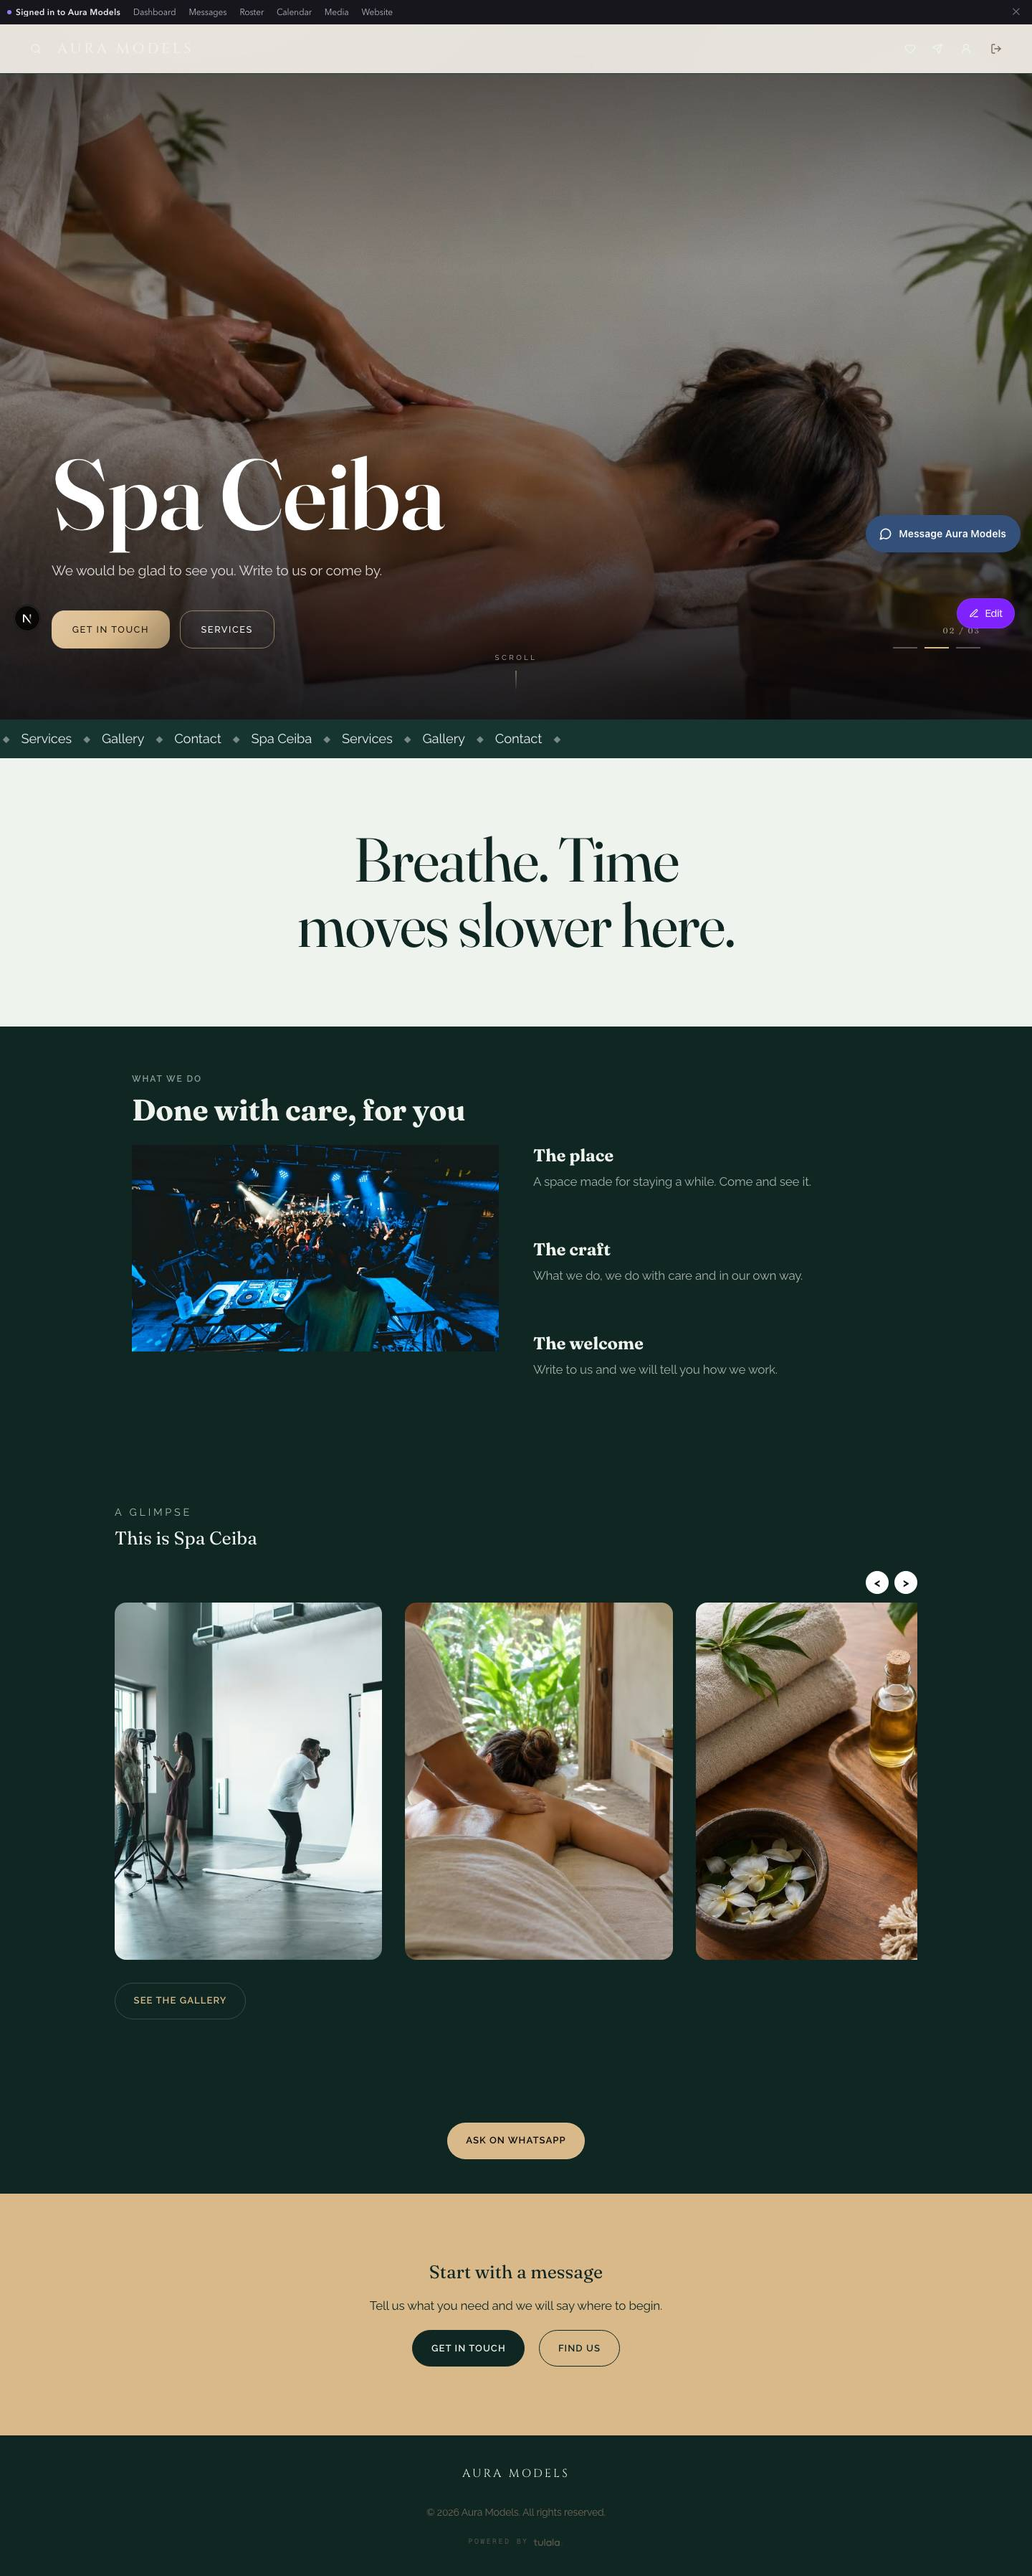
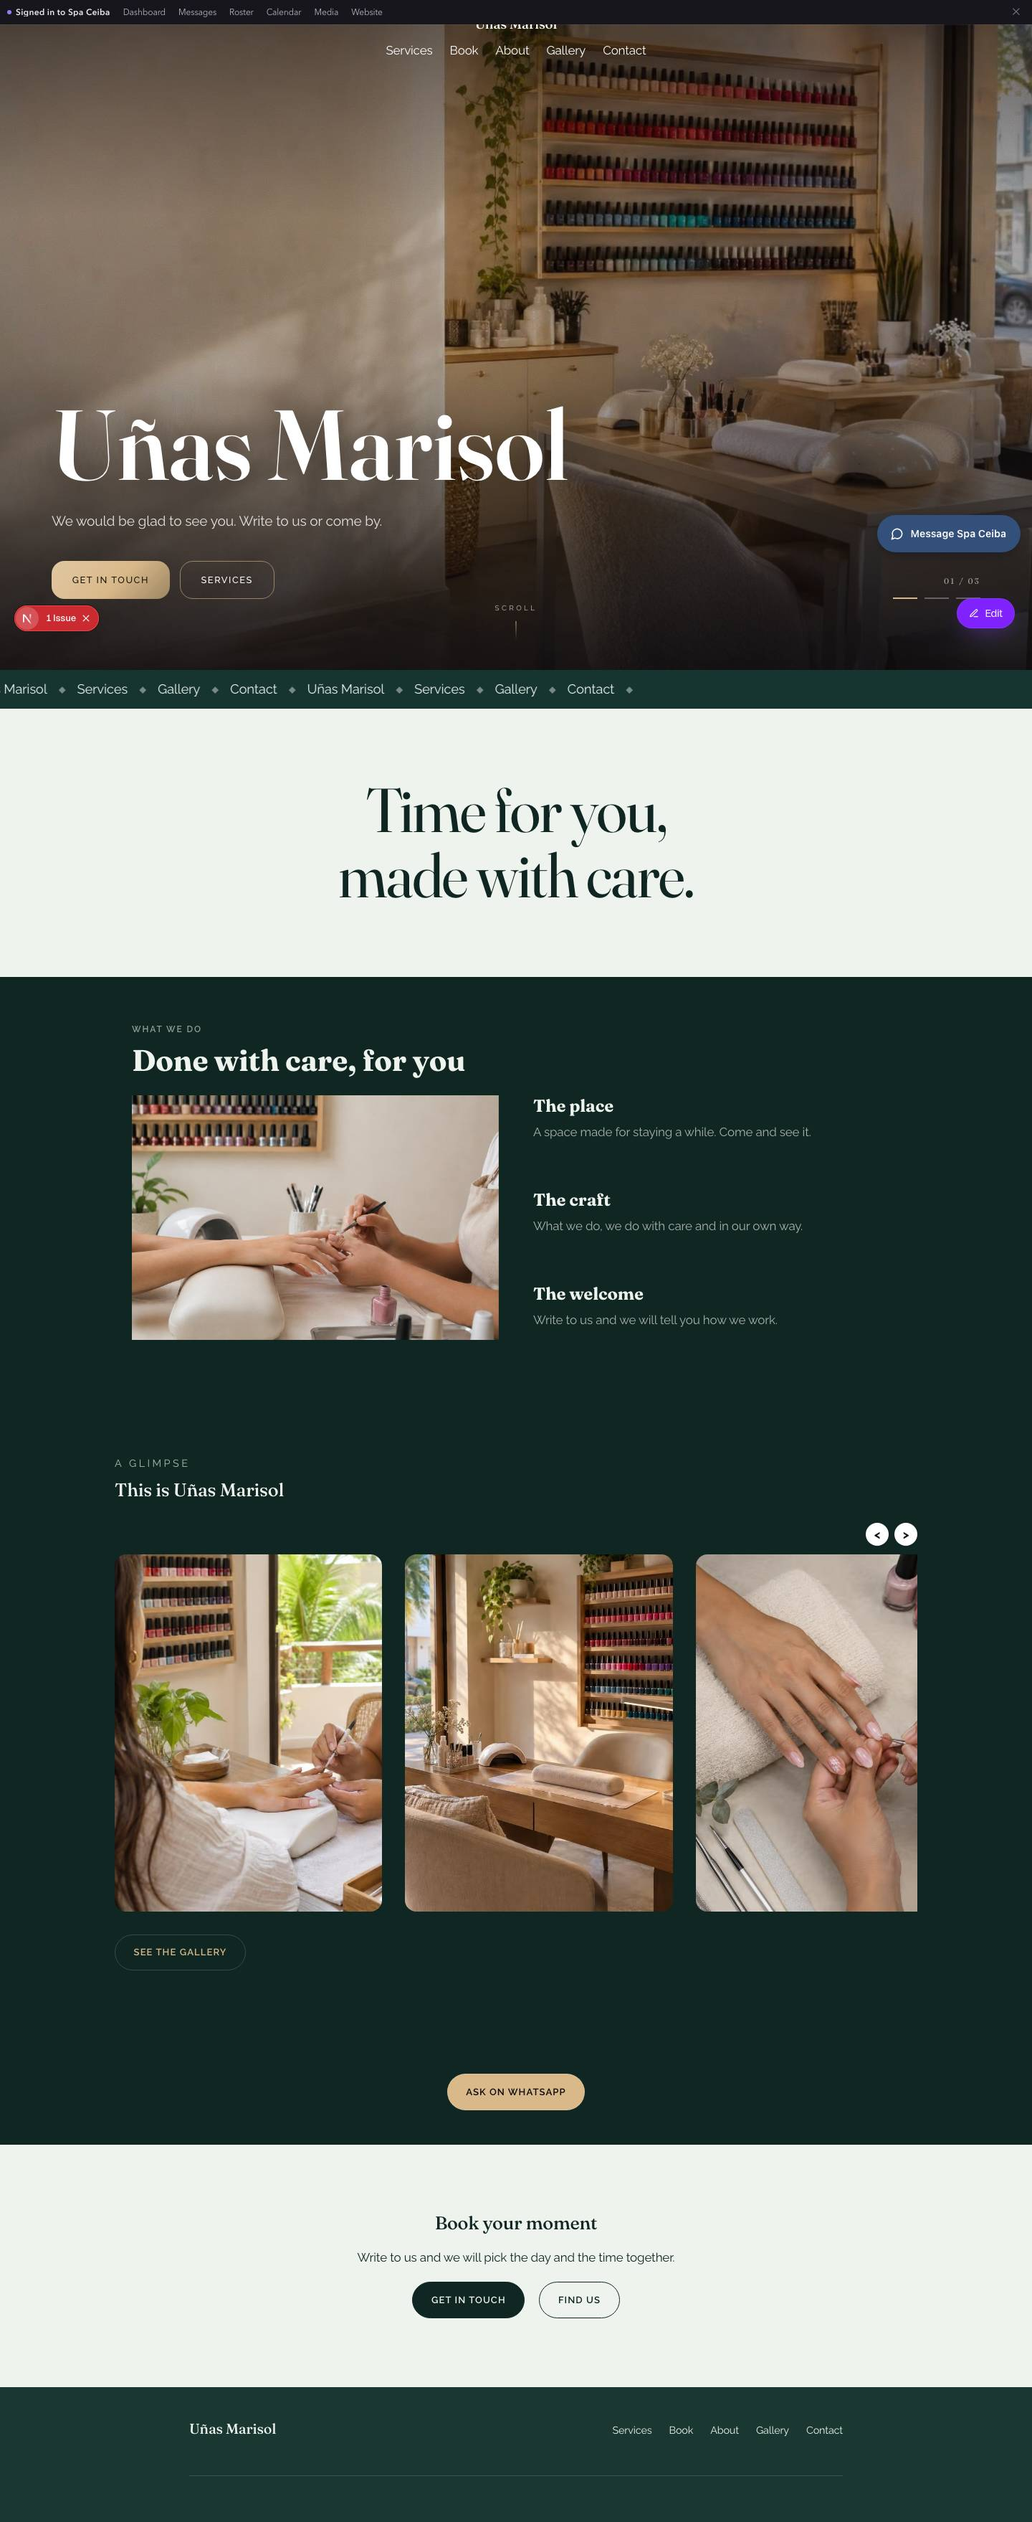
fix(compose): keep the public name in step with the brief; bust every tenant cache after a compose; cinematic Looks float their header over the hero
- agency_business_identity.public_name was seeded once and never updated, so
  the legacy header and the chat launcher showed the first-ever compose name
  ('Aura Models' on the QA tenant) under every later site; now updated from the
  brief's stated business.name each compose, identity tag busted
- bustAllTenantCaches (tenantBustTags) at the end of compose: the storefront
  rendered one compose behind (previous hero under the new name)
- cinematic recipes: header absolute/transparent over the hero, white ink,
  more head room; brand() takes an ink override
- evidence: flagship heroes re-captured with the real shell header
  (*-hero-shell-1440/390.jpg); README corrected (earlier captures showed the
  legacy header because the QA tenant had fallen out of the local shell
  allow-list). D-TPL-42.

diff --git a/web/src/lib/site-admin/builder-core/site-templates/compose-site-from-brief.server.ts b/web/src/lib/site-admin/builder-core/site-templates/compose-site-from-brief.server.ts
@@ -45,7 +45,7 @@ import { buildCopyPassPrompt, COPY_PASS_JSON_SCHEMA, COPY_PASS_KEYS, COPY_PASS_M
 import { assignmentSourceForLevel, buildImageResolver, type AssignmentSource, type CandidateImage } from "./image-resolver";
 import { stockFactsFromBrief } from "./stock-prompts";
 import { writeAssignments } from "@/lib/media/asset-assignments.server";
-import { tagFor } from "@/lib/site-admin/cache-tags";
+import { tagFor, tenantBustTags } from "@/lib/site-admin/cache-tags";
 import { updateTag } from "next/cache";
 import { enqueueTenantImageJob } from "@/lib/media/tenant-image-jobs.server";
 import { instantiateSite } from "./instantiate-site";
@@ -292,6 +292,26 @@ function bustBrandingCache(tenantId: string): void {
     /* outside a request scope (scripts, tests): nothing to bust */
   }
 }
+function bustIdentityCache(tenantId: string): void {
+  try {
+    updateTag(tagFor(tenantId, "identity"));
+  } catch {
+    /* outside a request scope */
+  }
+}
+/**
+ * A compose rewrites the homepage, the shell, the pages, the theme and the
+ * name: every public cache surface of the tenant is stale afterwards. The
+ * page writers bust their own tags; this is the belt for the ones that
+ * render one compose behind (seen live: previous hero under the new name).
+ */
+function bustAllTenantCaches(tenantId: string): void {
+  try {
+    for (const tag of tenantBustTags(tenantId)) updateTag(tag);
+  } catch {
+    /* outside a request scope */
+  }
+}
 
 const EMPTY_PLACED: SiteComposePlaced = { photos: { hero: null, heroSource: null, gallery: 0, level: null, pendingJobId: null }, menuItems: 0, hoursPresent: false, whatsappPresent: false, logoPresent: false };
 
@@ -376,10 +396,21 @@ export async function composeSiteFromBrief(input: ComposeSiteInput): Promise<Com
   // `agency_business_identity.public_name`; a tenant provisioned without one
   // would greet visitors as "the agency". Seed it with the name we are about
   // to put on the site (never overwriting a row that exists).
+  const statedName = (facts ? stringFact(facts, "business.name") : null)?.trim() || null;
   if (!identityRow) {
     const { error: idErr } = await admin.from("agency_business_identity").upsert({ tenant_id: input.tenantId, public_name: businessName }, { onConflict: "tenant_id", ignoreDuplicates: true });
     if (idErr) notes.push(`identity row not seeded: ${idErr.message}`);
     identityRow = await loadIdentityForStaff(admin, input.tenantId);
+  } else if (statedName && identityRow.public_name?.trim() !== statedName) {
+    // The brief's stated name is the newest fact: the legacy header, the chat
+    // button and the mobile menu read `public_name`, so a stale seed here
+    // would show one name in the chrome and another on the page.
+    const { error: nameErr } = await admin.from("agency_business_identity").update({ public_name: statedName }).eq("tenant_id", input.tenantId);
+    if (nameErr) notes.push(`public name not updated: ${nameErr.message}`);
+    else {
+      identityRow = { ...identityRow, public_name: statedName };
+      bustIdentityCache(input.tenantId);
+    }
   }
   const logoUrl = await resolveLogoUrl(admin, input.tenantId, facts);
   const hrefs = pageHrefsFor(family);
@@ -629,6 +660,7 @@ export async function composeSiteFromBrief(input: ComposeSiteInput): Promise<Com
     logoPresent: !!logoUrl,
   };
   await writeStamp(admin, input.tenantId, { outcome, siteComposeId, lookId: look.id, typeId, family, at: new Date().toISOString(), pageIds, placed, copySource, notes });
+  bustAllTenantCaches(input.tenantId);
 
   return { outcome, siteComposeId, lookId: look.id, typeId, family, pageIds, shellPageId: shell.ok ? shell.pageId : null, copySource, imagePicks, placed, notes, costUsd, durationMs: Date.now() - started };
 }

diff --git a/web/src/lib/site-admin/builder-core/site-templates/looks/shared.ts b/web/src/lib/site-admin/builder-core/site-templates/looks/shared.ts
@@ -322,8 +322,8 @@ function navLinks(): Array<{ id: string; label: string; href: string }> {
   }));
 }
 
-function brand(r: LookRecipe, align: "left" | "center" = "left"): BuilderNode {
-  const wordmark = h(2, copy("home.hero.headline"), { ...r.headingStyle, size: "md", align, textWrap: "nowrap" } as Style);
+function brand(r: LookRecipe, align: "left" | "center" = "left", extra: Style = {}): BuilderNode {
+  const wordmark = h(2, copy("home.hero.headline"), { ...r.headingStyle, size: "md", align, textWrap: "nowrap", ...extra } as Style);
   wordmark.props = { ...wordmark.props, layerLabel: "Brand name" };
   return row(
     [
@@ -365,14 +365,29 @@ function headerCta(): BuilderNode {
   return b;
 }
 
+/**
+ * Over a cinematic hero the header floats: absolutely positioned at the top,
+ * no background, light type. The hero's scrim is always dark (v2-sections),
+ * so white is the one honest literal here regardless of the Look's own ink;
+ * the header does not persist on scroll (award-tier pattern; the mobile
+ * drawer and the footer nav carry the links further down).
+ */
+const OVERLAY_INK = "#ffffff";
+
 function header(r: LookRecipe): BuilderNode[] {
-  const gutter: Style = { paddingX: "m", paddingY: "s", maxWidth: "full", maxWidthFree: "100%", width: "100%", background: "surface" };
+  const overlay = r.hero === "cinematic";
+  const gutter: Style = overlay
+    ? { paddingX: "m", paddingY: "m", maxWidth: "full", maxWidthFree: "100%", width: "100%", background: "none", position: "absolute", top: "0px", left: "0px", zIndex: 40, textColor: OVERLAY_INK }
+    : { paddingX: "m", paddingY: "s", maxWidth: "full", maxWidthFree: "100%", width: "100%", background: "surface" };
+  const ink: Style = overlay ? { textColor: OVERLAY_INK } : {};
+  const nav = (style: Style) => navNode({ ...style, ...ink });
+  const mark = (align: "left" | "center" = "left") => brand(r, align, ink);
   switch (r.header) {
     case "left-nav":
-      return [headerRow([brand(r), navNode({ justifyContent: "flex-end" }), headerCta()], gutter)];
+      return [headerRow([mark(), nav({ justifyContent: "flex-end" }), headerCta()], gutter)];
     case "centered": {
       // Desktop: wordmark above a centred nav. Phone: one row, brand + menu.
-      const node = stack([brand(r, "center"), navNode({ justifyContent: "center", flexGrow: 0 })], { ...gutter, alignItems: "center" }, { gap: "s", align: "center" });
+      const node = stack([mark("center"), nav({ justifyContent: "center", flexGrow: 0 })], { ...gutter, alignItems: "center" }, { gap: "s", align: "center" });
       (node as { props: Record<string, unknown> }).props = { ...node.props, responsive: { mobile: { layout: "row", align: "center" } } };
       return [node];
     }
@@ -381,10 +396,10 @@ function header(r: LookRecipe): BuilderNode[] {
       // Equal flex on both wings keeps the wordmark truly centred.
       const wing = ctas([headerCta()], "end");
       (wing as { props: Record<string, unknown> }).props = { ...wing.props, style: { flexGrow: 1, flexBasis: "0%", width: "auto" } };
-      return [headerRow([navNode({ justifyContent: "flex-start", flexGrow: 1, flexBasis: "0%" }), brand(r, "center"), wing], gutter)];
+      return [headerRow([nav({ justifyContent: "flex-start", flexGrow: 1, flexBasis: "0%" }), mark("center"), wing], gutter)];
     }
     case "minimal":
-      return [headerRow([brand(r), navNode({ justifyContent: "flex-end" })], gutter)];
+      return [headerRow([mark(), nav({ justifyContent: "flex-end" })], gutter)];
   }
 }
 

diff --git a/docs/plans/templates/evidence/looks-v2/README.md b/docs/plans/templates/evidence/looks-v2/README.md
@@ -6,7 +6,7 @@ Composed with `lookId: ember` (POST /api/dev/compose-site), the tenant's own ima
 - `ember-home-1440.jpg`, `ember-home-390.jpg` — full pages after a scroll pass (entrance animations need the viewport to reach them; a cold full-page capture shows unrevealed sections as blank, which is the animation working, not a hole).
 - `ember-menu-1440.jpg`, `ember-gallery-1440.jpg`, `ember-about-1440.jpg`, `ember-contact-1440.jpg` — inner pages under the same Look (menu shows the honest "not published yet" state: the fixture has no menu items).
 
-Known on these captures: the header/footer wordmark reads "AURA MODELS" (dev sign-in banner tenant + the shell flag on this dev server), not what a tenant sees; the "Rendering…" pill is the dev overlay.
+**Correction (owner caught it):** the earlier captures showed the platform's LEGACY header (cream bar, icons) reading "AURA MODELS", not the Look's header. Two real causes, both fixed in this branch: (1) the QA tenant was not in `SITE_SHELL_TENANT_IDS` in this worktree's `.env.local` (the production env pull had replaced my local entry), so the composed shell never rendered here; (2) the composer seeded `agency_business_identity.public_name` once (the first acceptance compose was case C08 "Aura Models") and never updated it, and the legacy header + chat launcher read that row. The composer now updates `public_name` from the brief's stated name, busts every tenant cache surface after a compose, and cinematic Looks float their own header over the hero (`*-hero-shell-1440/390.jpg`). The "Rendering…" pill and the "Signed in to …" bar are dev overlays.
 
 Renderer fixes made for this Look (in the branch): the native kinds' secondary text (`sticky_scroll` body, eyebrows, `p2a-copy`, marquee tags…) was a fixed dark `rgba(18,18,18,…)` and vanished on a dark canvas, now `color-mix` from `--token-color-ink`; the sticky story stacks under 768 px; hero CTAs follow the theme radius.
 

diff --git a/docs/plans/templates/decisions.md b/docs/plans/templates/decisions.md
@@ -45,3 +45,4 @@ Recorded by the Templates & Imagery Lead when a choice was open. Each entry: dec
 | D-TPL-39 | 2026-09-16 | Per-site image runner paces under the measured 5 images/min org limit (2 in flight, 26 s pause); `rate_limit_exceeded` leaves the slot queued. Tenant generation covers home + about slots only (6–8 per site); a tenant's images are bound to the business type they were made for. | Spa run hit the limit at slot 7; re-composes were enqueueing gallery-page slots without bound. | Family/type seed still needed so fallbacks stop being the 14 universal photos. |
 | D-TPL-40 | 2026-09-16 | `luxe` = beauty default, `tide` = wellness default (v2); composer busts the `branding` cache tag after writing the theme, so a new Look shows without a server restart. | Luxe rendered in ember's colours until restart: the public theme is served from `tagFor(tenant,"branding")`. | none |
 | D-TPL-41 | 2026-09-16 | All ten remaining Looks upgraded in place to the v2 recipe (ids kept, palettes and motion per family; `warm` retitled "Amber" and moved off cream). No v1 layout ships. | Owner: the whole design was old-fashioned; keeping ids means Look references, defaults and exports stay valid. | The v1 `evidence/looks/` set is historical. |
+| D-TPL-42 | 2026-09-16 | Composer updates `agency_business_identity.public_name` to the brief's stated `business.name` on every compose (not only when seeding) and busts every tenant cache surface (`tenantBustTags`) when done; cinematic Looks render their header floating over the hero (absolute, transparent, white ink). | Owner saw "AURA MODELS" (a stale first-compose seed read by the legacy header and chat launcher) and the legacy header instead of the Look's; the QA tenant had also fallen out of the local shell allow-list. | In production a tenant's shell header shows only where `ENABLE_SITE_SHELL`/`SITE_SHELL_TENANT_IDS` admit it (owner switch, handoff §6). |
